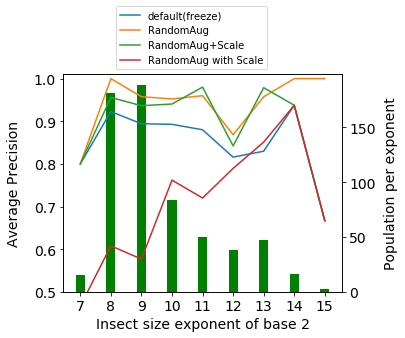
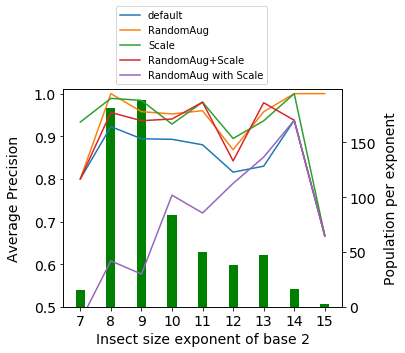
create masterpaper Result (not finished 2)

diff --git a/readme.md b/readme.md
@@ -394,6 +394,7 @@
             - [x] 転移学習無し  
             - [x] 転移学習(freeze)  
             - [x] 転移学習  
+            - [x] 転移学習(freeze) + 昆虫サイズ拡張  
             - [x] 転移学習(freeze) + データ拡張 -->最良  
             - [x] 転移学習(freeze) + データ拡張 + 昆虫サイズ拡張(All + Resize)  
             - [x] 転移学習(freeze) + データ拡張 + 昆虫サイズ拡張(AllwithResize)  
@@ -411,6 +412,7 @@
             - [x] 転移学習 + OS(OverSampling)  
             - [ ] 転移学習 + データ拡張  
             - [x] 転移学習 + OS + データ拡張  
+            - [x] 転移学習 + OS + 昆虫サイズ拡張  
             - [x] 転移学習 + OS + データ拡張 + 昆虫サイズ拡張(All + Resize)  
             - [x] 転移学習 + OS + データ拡張 + 昆虫サイズ拡張(AllwithResize)  
             - [x] 転移学習 + OS + データ拡張 + FC  
@@ -432,6 +434,7 @@
             - [x] 転移学習 + OS  
             - [ ] 転移学習 + データ拡張  
             - [x] 転移学習 + OS + データ拡張  
+            - [x] 転移学習 + OS + 昆虫サイズ拡張  
             - [x] 転移学習 + OS + データ拡張 + 昆虫サイズ拡張(All + Resize)  
             - [x] 転移学習 + OS + データ拡張 + 昆虫サイズ拡張(AllwithResize)  
             - [x] 転移学習 + OS + データ拡張 + FC  
